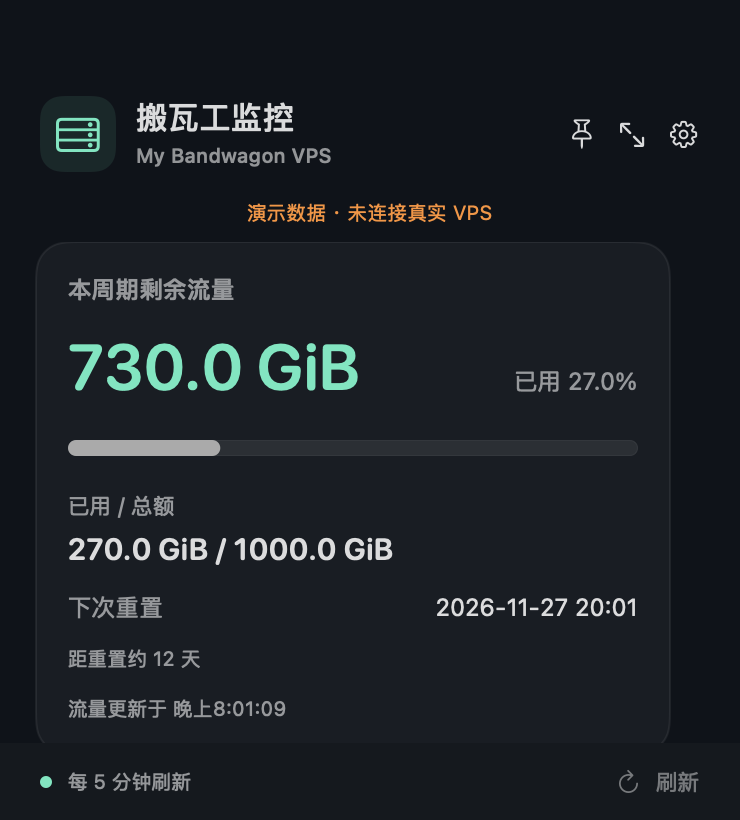
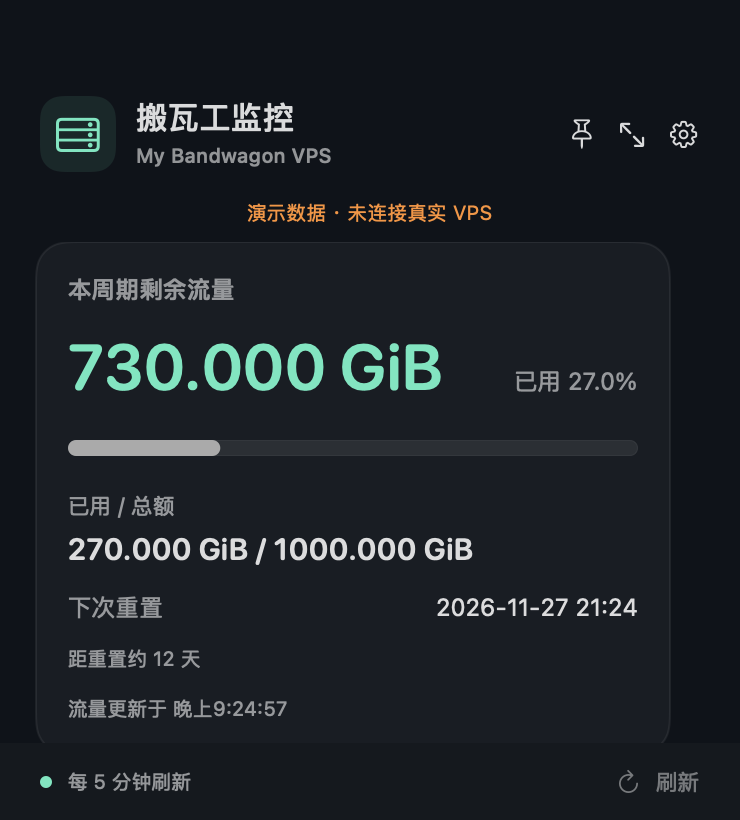
Display byte quantities with three decimal places

diff --git a/Sources/Core.swift b/Sources/Core.swift
@@ -16,7 +16,7 @@ func bytes(_ n: Double?) -> String {
     let units = ["B", "KiB", "MiB", "GiB", "TiB"]
     var v = n; var index = 0
     while v >= 1024 && index < units.count - 1 { v /= 1024; index += 1 }
-    return String(format: index == 0 ? "%.0f %@" : "%.1f %@", v, units[index])
+    return String(format: index == 0 ? "%.0f %@" : "%.3f %@", v, units[index])
 }
 func dateText(_ value: Any?) -> String {
     guard let n = numeric(value), n > 0 else { return "—" }
@@ -131,6 +131,6 @@ func selfTest() throws {
         do { _ = try APIClient.decode(Data(body.utf8), status: status) } catch { rejected = true }
         try check(rejected, "拒绝错误或无效响应 \(status) \(body)")
     }
-    try check(bytes(1073741824) == "1.0 GiB" && bytes(nil) == "—", "字节显示与未知状态")
+    try check(bytes(1073741824) == "1.000 GiB" && bytes(nil) == "—", "字节显示与未知状态")
     try check(Endpoint.allCases.count == 9 && !Endpoint.allCases.contains { $0.rawValue.contains("exec") }, "仅包含九个查询接口")
 }

diff --git a/Shared/WidgetSnapshot.swift b/Shared/WidgetSnapshot.swift
@@ -72,5 +72,5 @@ func widgetBytes(_ value: Double?) -> String {
     var n = value; var index = 0
     let units = ["B", "KiB", "MiB", "GiB", "TiB"]
     while n >= 1024 && index < 4 { n /= 1024; index += 1 }
-    return String(format: "%.1f %@", n, units[index])
+    return String(format: index == 0 ? "%.0f %@" : "%.3f %@", n, units[index])
 }
